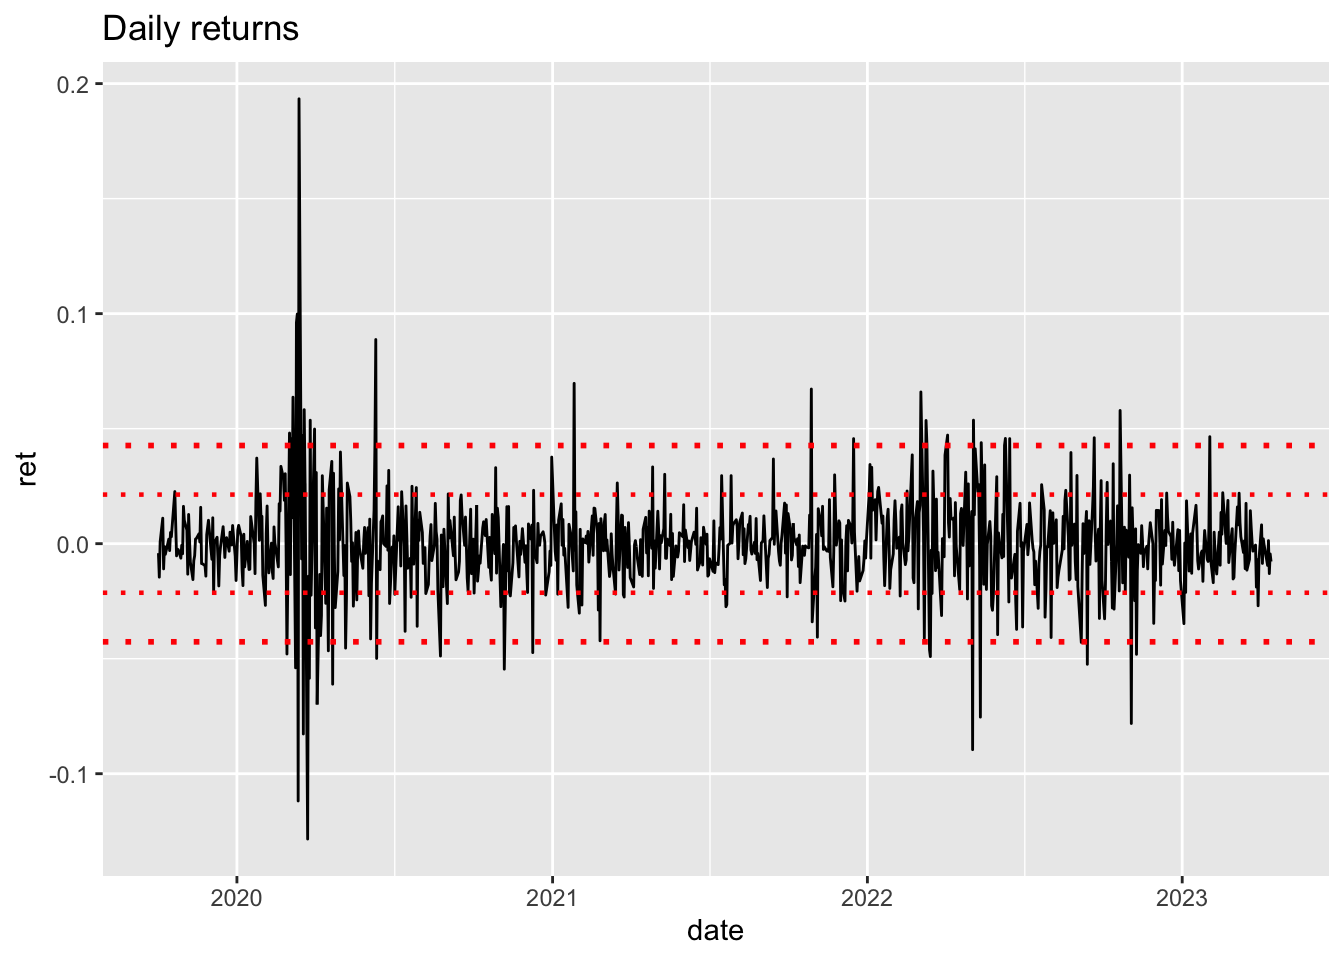
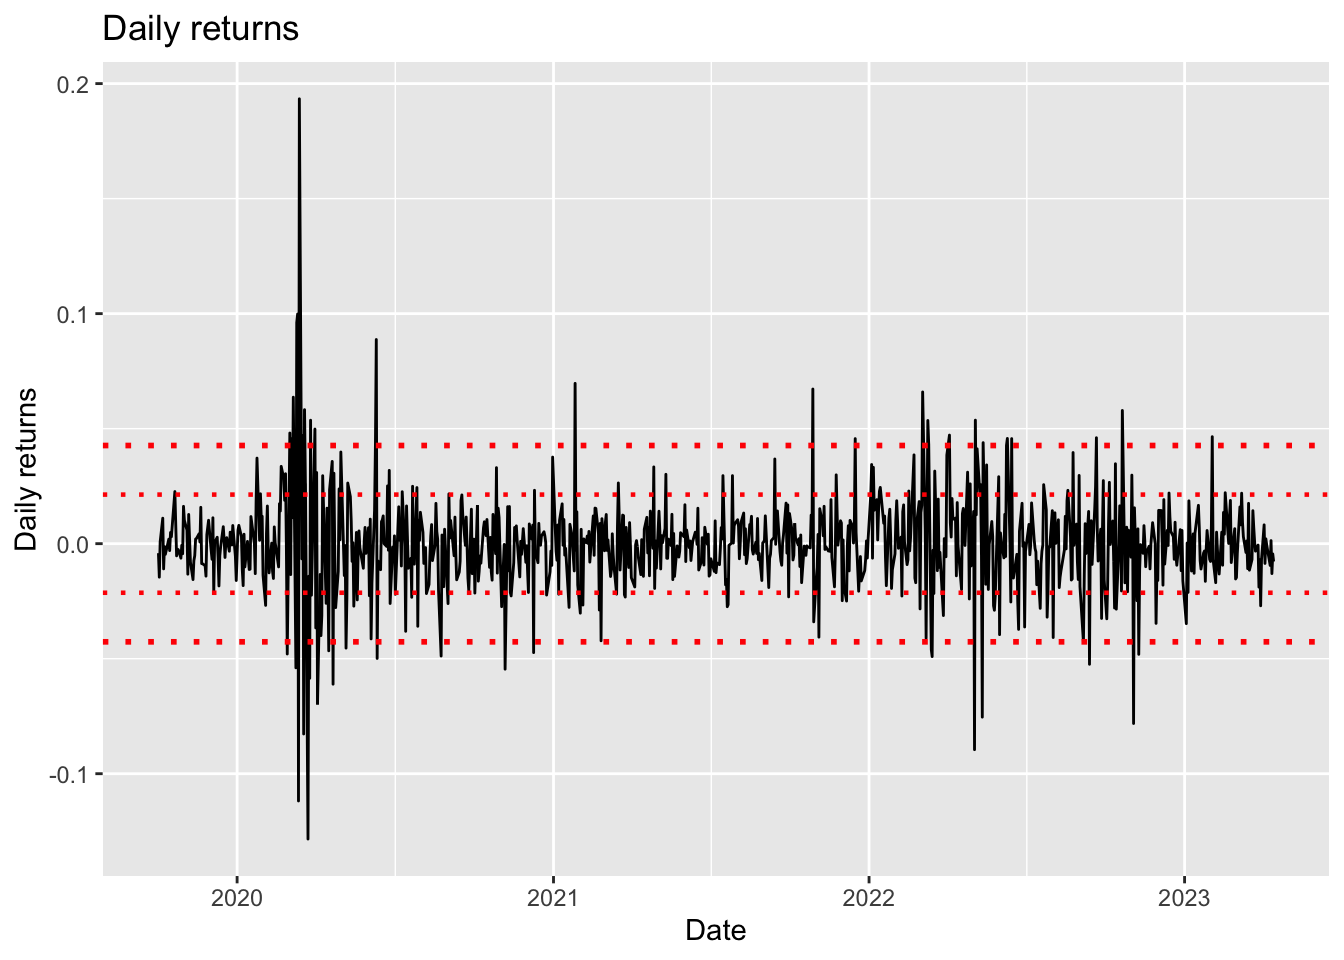
update on random behavior of assets post

diff --git a/docs/posts/random-behavior-assets/index.html b/docs/posts/random-behavior-assets/index.html
@@ -173,7 +173,6 @@ code span.wa { color: #60a0b0; font-weight: bold; font-style: italic; } /* Warni
                                 <div class="quarto-categories">
                 <div class="quarto-category">R-code</div>
                 <div class="quarto-category">quant-finance</div>
-                <div class="quarto-category">binomial_models</div>
               </div>
                   </div>
   </div>
@@ -213,7 +212,12 @@ code span.wa { color: #60a0b0; font-weight: bold; font-style: italic; } /* Warni
    
   <ul>
   <li><a href="#discrete-approach" id="toc-discrete-approach" class="nav-link active" data-scroll-target="#discrete-approach">Discrete approach</a></li>
-  <li><a href="#continuous-approach" id="toc-continuous-approach" class="nav-link" data-scroll-target="#continuous-approach">Continuous approach</a></li>
+  <li><a href="#continuous-approach" id="toc-continuous-approach" class="nav-link" data-scroll-target="#continuous-approach">Continuous approach</a>
+  <ul class="collapse">
+  <li><a href="#ignoring-randomness" id="toc-ignoring-randomness" class="nav-link" data-scroll-target="#ignoring-randomness">Ignoring randomness</a></li>
+  <li><a href="#considering-randomness" id="toc-considering-randomness" class="nav-link" data-scroll-target="#considering-randomness">Considering randomness</a></li>
+  <li><a href="#going-to-continuous-time" id="toc-going-to-continuous-time" class="nav-link" data-scroll-target="#going-to-continuous-time">Going to continuous time</a></li>
+  </ul></li>
   <li><a href="#practice-in-r" id="toc-practice-in-r" class="nav-link" data-scroll-target="#practice-in-r">Practice in R</a></li>
   </ul>
 </nav>
@@ -250,13 +254,15 @@ code span.wa { color: #60a0b0; font-weight: bold; font-style: italic; } /* Warni
 <li><span class="math inline">\(\mu\)</span> = Annualized means returns on a continuous basis (usually not known, or hard to know)</li>
 <li><span class="math inline">\(\delta t\)</span> = a small time increment</li>
 </ul>
-<p><span class="math display">\[R_i = \frac{S_{i+1} - S_i}{S_i} = \mu \delta t\]</span> <span class="math display">\[S_{i+1} - S_i= S_i \mu \delta t\]</span> <span id="eq-asset-price1"><span class="math display">\[S_{i+1} = S_i \cdot (1 +  \mu \delta t) \tag{3}\]</span></span></p>
+<section id="ignoring-randomness" class="level2">
+<h2 class="anchored" data-anchor-id="ignoring-randomness">Ignoring randomness</h2>
+<p><span class="math display">\[R_i = \frac{S_{i+1} - S_i}{S_i} = mean  = \mu \delta t\]</span> <span class="math display">\[S_{i+1} - S_i= S_i \mu \delta t\]</span> <span id="eq-asset-price1"><span class="math display">\[S_{i+1} = S_i \cdot (1 +  \mu \delta t) \tag{3}\]</span></span></p>
 <p>We could also rewrite <a href="#eq-asset-price1">Equation&nbsp;3</a> so it depends of the initial (starting) price, instead of the previous price.</p>
-<p><span class="math inline">\(S_n = S_0 (1+\mu \delta t)^n\)</span></p>
+<p><span class="math display">\[S_n = S_0 (1+\mu \delta t)^n\]</span></p>
 <p>Using natural log:</p>
 <p><span class="math inline">\(S_n = S_0 e^{log (1+\mu \delta t)^n} = S_0 e^{n \cdot log{(1+\mu \delta t)}}\)</span></p>
-<p>We could argue that <span class="math inline">\(log(1+\mu \delta t) = \mu \delta t\)</span> as <span class="math inline">\(log(1+x) = x\)</span> for small values of x.</p>
-<p><span id="eq-asset-price2"><span class="math display">\[S_n = S_0 \cdot e^{n \mu \delta t} \tag{4}\]</span></span></p>
+<p>We could argue that <span class="math inline">\(log(1+\mu \delta t) \approx \mu \delta t\)</span> as <span class="math inline">\(log(1+x) \approx x\)</span> for small values of x.</p>
+<p><span id="eq-asset-price2"><span class="math display">\[S_n \approx S_0 \cdot e^{n \mu \delta t} \tag{4}\]</span></span></p>
 <p>Now, <span class="math inline">\(n \cdot \delta t\)</span> is the same as <span class="math inline">\(t\)</span>. Hence,</p>
 <div class="callout-tip callout callout-style-simple no-icon">
 <div class="callout-body d-flex">
@@ -264,17 +270,37 @@ code span.wa { color: #60a0b0; font-weight: bold; font-style: italic; } /* Warni
 <i class="callout-icon no-icon"></i>
 </div>
 <div class="callout-body-container">
-<p><span class="math display">\[S(t) = S_0 \cdot e^{\mu t}\]</span></p>
-<p>And the standard deviation of returns = <span class="math inline">\(\sigma \sqrt{\delta t}\)</span></p>
+<p><span class="math display">\[S(t) \approx S_0 \cdot e^{\mu t}\]</span></p>
+</div>
+</div>
+</div>
+</section>
+<section id="considering-randomness" class="level2">
+<h2 class="anchored" data-anchor-id="considering-randomness">Considering randomness</h2>
+<p>Let’s restart with <a href="#eq-ret2">Equation&nbsp;2</a></p>
+<p><span class="math display">\[R_i = \frac{S_{i+1} - S_i}{S_i} = \bar{R} + std \cdot \phi = \mu \delta t + \sigma \phi \delta t^{1/2}\]</span> <span id="eq-asset-price2"><span class="math display">\[S_{i+1} - S_i= S_i \mu \delta t + S_i \sigma \phi \delta t^{1/2} \tag{5}\]</span></span></p>
+<div class="callout-tip callout callout-style-simple no-icon">
+<div class="callout-body d-flex">
+<div class="callout-icon-container">
+<i class="callout-icon no-icon"></i>
+</div>
+<div class="callout-body-container">
+<p><span id="eq-asset-price3"><span class="math display">\[S_{i+1} = S_i \cdot (1 +  \mu \delta t) + S_i \sigma \phi \delta t^{1/2} \tag{6}\]</span></span></p>
+<p>This last <a href="#eq-asset-price3">Equation&nbsp;6</a> is the basis for Monte-Carlo simulation.</p>
 <ul>
+<li>Notice the standard deviation of return: <span class="math inline">\(\sigma \sqrt{\delta t}\)</span></li>
 <li>unit of <span class="math inline">\(\mu = \frac{1}{t}\)</span></li>
 <li>unit of <span class="math inline">\(\sigma = \frac{1}{\sqrt{t}}\)</span></li>
+<li>this is because we can only variance together (no sd). For independent variable X and Y: <span class="math inline">\(Var(X+Y) = Var(X) + Var(Y)\)</span></li>
+<li>the standard deviation of returns scale up with the square root of the time step.</li>
 </ul>
 </div>
 </div>
 </div>
-<p>From earlier <a href="#eq-ret2">Equation&nbsp;2</a>, we can re-write it as: <span class="math inline">\(R_i = \bar{R} + Std \phi = \mu \delta t + \sigma \sqrt{\delta t} \phi\)</span></p>
-<p><span class="math display">\[S_{i+1} - S_i= S_i \mu \delta t + S_i \sigma \sqrt{\delta t} \phi\]</span></p>
+</section>
+<section id="going-to-continuous-time" class="level2">
+<h2 class="anchored" data-anchor-id="going-to-continuous-time">Going to continuous time</h2>
+<p>Restarting from <a href="#eq-asset-price2">Equation&nbsp;5</a> : <span class="math display">\[S_{i+1} - S_i= S_i \mu \delta t + S_i \sigma \sqrt{\delta t} \phi\]</span></p>
 <ul>
 <li><span class="math inline">\(S_{i+1} - S_i = dS\)</span></li>
 <li><span class="math inline">\(S_i = S(t)\)</span></li>
@@ -292,14 +318,17 @@ code span.wa { color: #60a0b0; font-weight: bold; font-style: italic; } /* Warni
 <li>returns are treated as random</li>
 <li>returns are assumed to be normally distributed (again not totally exact)</li>
 <li>prices (S) are modelled as a log-normal walk (SDE)</li>
+<li><span class="math inline">\(\mu\)</span> is the drift rate or growth rate</li>
+<li>because of the different scaling of time (<span class="math inline">\(t\)</span> and <span class="math inline">\(\sqrt{t}\)</span>), on a short time frame, drift is negligible and volatility matters.</li>
 </ul>
 </div>
 </div>
 </div>
 </section>
+</section>
 <section id="practice-in-r" class="level1">
 <h1>Practice in R</h1>
-<p>Let’s use the previous note with a SBUX as a ticker.</p>
+<p>Let’s use the above notes with the ticker SBUX as a financial asset.</p>
 <div class="cell">
 <div class="sourceCode cell-code" id="cb1"><pre class="sourceCode r code-with-copy"><code class="sourceCode r"><span id="cb1-1"><a href="#cb1-1" aria-hidden="true" tabindex="-1"></a><span class="fu">library</span>(readr)    <span class="co"># read_csv()</span></span>
 <span id="cb1-2"><a href="#cb1-2" aria-hidden="true" tabindex="-1"></a><span class="fu">library</span>(dplyr)    <span class="co"># select(), filter(), mutate()</span></span>
@@ -314,27 +343,50 @@ code span.wa { color: #60a0b0; font-weight: bold; font-style: italic; } /* Warni
 <span id="cb1-11"><a href="#cb1-11" aria-hidden="true" tabindex="-1"></a>stdev <span class="ot">=</span> <span class="fu">sd</span>(df<span class="sc">$</span>ret, <span class="at">na.rm =</span> T)</span>
 <span id="cb1-12"><a href="#cb1-12" aria-hidden="true" tabindex="-1"></a></span>
 <span id="cb1-13"><a href="#cb1-13" aria-hidden="true" tabindex="-1"></a>mu <span class="ot">=</span> r_bar <span class="sc">/</span> (<span class="dv">1</span><span class="sc">/</span><span class="dv">252</span>)</span>
-<span id="cb1-14"><a href="#cb1-14" aria-hidden="true" tabindex="-1"></a>sigma <span class="ot">=</span> stdev <span class="sc">/</span> <span class="fu">sqrt</span>(<span class="dv">1</span><span class="sc">/</span><span class="dv">252</span>)</span></code><button title="Copy to Clipboard" class="code-copy-button"><i class="bi"></i></button></pre></div>
+<span id="cb1-14"><a href="#cb1-14" aria-hidden="true" tabindex="-1"></a>sigma <span class="ot">=</span> stdev <span class="sc">/</span> <span class="fu">sqrt</span>(<span class="dv">1</span><span class="sc">/</span><span class="dv">252</span>)</span>
+<span id="cb1-15"><a href="#cb1-15" aria-hidden="true" tabindex="-1"></a></span>
+<span id="cb1-16"><a href="#cb1-16" aria-hidden="true" tabindex="-1"></a>r_bar</span></code><button title="Copy to Clipboard" class="code-copy-button"><i class="bi"></i></button></pre></div>
+<div class="cell-output cell-output-stdout">
+<pre><code>[1] -0.0001341147</code></pre>
 </div>
-<p>The average daily return of SBUX over the last 3-ish year is -1.34^{-4} and using <span class="math inline">\(\bar{R} = \mu \delta t\)</span> , or <span class="math inline">\(\mu = \frac{\bar{R}}{\delta t}\)</span> and in our case <span class="math inline">\(\delta t = \frac{1}{252}\)</span>; hence annualized returns is -3.38 % with standard deviation of 33.868 % annualized.</p>
+<div class="sourceCode cell-code" id="cb3"><pre class="sourceCode r code-with-copy"><code class="sourceCode r"><span id="cb3-1"><a href="#cb3-1" aria-hidden="true" tabindex="-1"></a>stdev</span></code><button title="Copy to Clipboard" class="code-copy-button"><i class="bi"></i></button></pre></div>
+<div class="cell-output cell-output-stdout">
+<pre><code>[1] 0.02133465</code></pre>
+</div>
+</div>
+<p>Knowing the average daily return of SBUX over the last 3-ish year and using <span class="math inline">\(\bar{R} = \mu \delta t\)</span> , or <span class="math inline">\(\mu = \frac{\bar{R}}{\delta t}\)</span> and in our case <span class="math inline">\(\delta t = \frac{1}{252}\)</span>; we find the average annualized returns <span class="math inline">\(\mu\)</span> is: -3.38 % with standard deviation <span class="math inline">\(\sigma\)</span> of 33.9 % annualized.</p>
 <p>We could plot the returns and the std of returns</p>
 <div class="cell">
-<div class="sourceCode cell-code" id="cb2"><pre class="sourceCode r code-with-copy"><code class="sourceCode r"><span id="cb2-1"><a href="#cb2-1" aria-hidden="true" tabindex="-1"></a><span class="fu">library</span>(ggplot2)</span>
-<span id="cb2-2"><a href="#cb2-2" aria-hidden="true" tabindex="-1"></a></span>
-<span id="cb2-3"><a href="#cb2-3" aria-hidden="true" tabindex="-1"></a><span class="fu">ggplot</span>(df, <span class="fu">aes</span>(<span class="at">x =</span> date, <span class="at">y =</span> ret)) <span class="sc">+</span> </span>
-<span id="cb2-4"><a href="#cb2-4" aria-hidden="true" tabindex="-1"></a>  <span class="fu">geom_line</span>() <span class="sc">+</span> </span>
-<span id="cb2-5"><a href="#cb2-5" aria-hidden="true" tabindex="-1"></a>  <span class="fu">geom_hline</span>(<span class="at">yintercept =</span> stdev, <span class="at">linetype =</span> <span class="st">'dotted'</span>, <span class="at">color =</span> <span class="st">'red'</span>, <span class="at">linewidth=</span> <span class="fl">0.8</span>) <span class="sc">+</span> </span>
-<span id="cb2-6"><a href="#cb2-6" aria-hidden="true" tabindex="-1"></a>  <span class="fu">geom_hline</span>(<span class="at">yintercept =</span> <span class="sc">-</span>stdev, <span class="at">linetype =</span> <span class="st">'dotted'</span>, <span class="at">color =</span> <span class="st">'red'</span>, <span class="at">linewidth =</span> <span class="fl">0.8</span>) <span class="sc">+</span> </span>
-<span id="cb2-7"><a href="#cb2-7" aria-hidden="true" tabindex="-1"></a>    <span class="fu">geom_hline</span>(<span class="at">yintercept =</span> <span class="dv">2</span><span class="sc">*</span>stdev, <span class="at">linetype =</span> <span class="st">'dotted'</span>, <span class="at">color =</span> <span class="st">'red'</span>, <span class="at">linewidth=</span> <span class="dv">1</span>) <span class="sc">+</span> </span>
-<span id="cb2-8"><a href="#cb2-8" aria-hidden="true" tabindex="-1"></a>  <span class="fu">geom_hline</span>(<span class="at">yintercept =</span> <span class="sc">-</span><span class="dv">2</span><span class="sc">*</span>stdev, <span class="at">linetype =</span> <span class="st">'dotted'</span>, <span class="at">color =</span> <span class="st">'red'</span>, <span class="at">linewidth =</span> <span class="dv">1</span>) <span class="sc">+</span> </span>
-<span id="cb2-9"><a href="#cb2-9" aria-hidden="true" tabindex="-1"></a>  <span class="fu">labs</span>(<span class="at">title =</span> <span class="st">'Daily returns'</span>)</span></code><button title="Copy to Clipboard" class="code-copy-button"><i class="bi"></i></button></pre></div>
-<div class="cell-output cell-output-stderr">
-<pre><code>Warning: Removed 1 row containing missing values (`geom_line()`).</code></pre>
-</div>
+<div class="sourceCode cell-code" id="cb5"><pre class="sourceCode r code-with-copy"><code class="sourceCode r"><span id="cb5-1"><a href="#cb5-1" aria-hidden="true" tabindex="-1"></a><span class="fu">library</span>(ggplot2)</span>
+<span id="cb5-2"><a href="#cb5-2" aria-hidden="true" tabindex="-1"></a></span>
+<span id="cb5-3"><a href="#cb5-3" aria-hidden="true" tabindex="-1"></a><span class="fu">ggplot</span>(df <span class="sc">|&gt;</span> <span class="fu">drop_na</span>(), <span class="fu">aes</span>(<span class="at">x =</span> date, <span class="at">y =</span> ret)) <span class="sc">+</span> </span>
+<span id="cb5-4"><a href="#cb5-4" aria-hidden="true" tabindex="-1"></a>  <span class="fu">geom_line</span>() <span class="sc">+</span> </span>
+<span id="cb5-5"><a href="#cb5-5" aria-hidden="true" tabindex="-1"></a>  <span class="fu">geom_hline</span>(<span class="at">yintercept =</span> stdev, <span class="at">linetype =</span> <span class="st">'dotted'</span>, <span class="at">color =</span> <span class="st">'red'</span>, <span class="at">linewidth=</span> <span class="fl">0.8</span>) <span class="sc">+</span> </span>
+<span id="cb5-6"><a href="#cb5-6" aria-hidden="true" tabindex="-1"></a>  <span class="fu">geom_hline</span>(<span class="at">yintercept =</span> <span class="sc">-</span>stdev, <span class="at">linetype =</span> <span class="st">'dotted'</span>, <span class="at">color =</span> <span class="st">'red'</span>, <span class="at">linewidth =</span> <span class="fl">0.8</span>) <span class="sc">+</span> </span>
+<span id="cb5-7"><a href="#cb5-7" aria-hidden="true" tabindex="-1"></a>  <span class="fu">geom_hline</span>(<span class="at">yintercept =</span> <span class="dv">2</span><span class="sc">*</span>stdev, <span class="at">linetype =</span> <span class="st">'dotted'</span>, <span class="at">color =</span> <span class="st">'red'</span>, <span class="at">linewidth=</span> <span class="dv">1</span>) <span class="sc">+</span> </span>
+<span id="cb5-8"><a href="#cb5-8" aria-hidden="true" tabindex="-1"></a>  <span class="fu">geom_hline</span>(<span class="at">yintercept =</span> <span class="sc">-</span><span class="dv">2</span><span class="sc">*</span>stdev, <span class="at">linetype =</span> <span class="st">'dotted'</span>, <span class="at">color =</span> <span class="st">'red'</span>, <span class="at">linewidth =</span> <span class="dv">1</span>) <span class="sc">+</span> </span>
+<span id="cb5-9"><a href="#cb5-9" aria-hidden="true" tabindex="-1"></a>  <span class="fu">xlab</span>(<span class="at">label =</span> <span class="st">'Date'</span>) <span class="sc">+</span> <span class="fu">ylab</span>(<span class="at">label =</span> <span class="st">'Daily returns'</span>) <span class="sc">+</span> </span>
+<span id="cb5-10"><a href="#cb5-10" aria-hidden="true" tabindex="-1"></a>  <span class="fu">labs</span>(<span class="at">title =</span> <span class="st">'Daily returns'</span>)</span></code><button title="Copy to Clipboard" class="code-copy-button"><i class="bi"></i></button></pre></div>
 <div class="cell-output-display">
 <p><img src="index_files/figure-html/unnamed-chunk-2-1.png" class="img-fluid" width="672"></p>
 </div>
 </div>
+<p>We could standardized the returns (aka ensure they have a mean = 0 and std = 1) and compare it to the standard normal distribution.</p>
+<div class="cell">
+<div class="sourceCode cell-code" id="cb6"><pre class="sourceCode r code-with-copy"><code class="sourceCode r"><span id="cb6-1"><a href="#cb6-1" aria-hidden="true" tabindex="-1"></a>df1 <span class="ot">&lt;-</span> df <span class="sc">|&gt;</span> </span>
+<span id="cb6-2"><a href="#cb6-2" aria-hidden="true" tabindex="-1"></a>  <span class="fu">mutate</span>(<span class="at">std_ret =</span> (ret <span class="sc">-</span> r_bar) <span class="sc">/</span> stdev) <span class="sc">|&gt;</span> </span>
+<span id="cb6-3"><a href="#cb6-3" aria-hidden="true" tabindex="-1"></a>  <span class="fu">drop_na</span>()</span>
+<span id="cb6-4"><a href="#cb6-4" aria-hidden="true" tabindex="-1"></a></span>
+<span id="cb6-5"><a href="#cb6-5" aria-hidden="true" tabindex="-1"></a><span class="fu">ggplot</span>(df1, <span class="fu">aes</span>(std_ret)) <span class="sc">+</span> </span>
+<span id="cb6-6"><a href="#cb6-6" aria-hidden="true" tabindex="-1"></a>  <span class="fu">geom_histogram</span>(<span class="fu">aes</span>(<span class="at">y =</span> ..density..), <span class="at">alpha =</span> <span class="fl">0.3</span>, <span class="at">fill =</span> <span class="st">'blue'</span>, <span class="at">binwidth =</span> <span class="fl">0.5</span>) <span class="sc">+</span> </span>
+<span id="cb6-7"><a href="#cb6-7" aria-hidden="true" tabindex="-1"></a>  <span class="fu">stat_function</span>(<span class="at">fun =</span> dnorm, <span class="at">n =</span> <span class="dv">101</span>, <span class="at">args =</span> <span class="fu">list</span>(<span class="at">mean =</span> <span class="dv">0</span>, <span class="at">sd =</span> <span class="dv">1</span>), <span class="at">color =</span> <span class="st">'red'</span>, <span class="at">size =</span> <span class="dv">1</span>) <span class="sc">+</span></span>
+<span id="cb6-8"><a href="#cb6-8" aria-hidden="true" tabindex="-1"></a>  <span class="fu">scale_y_continuous</span>() <span class="sc">+</span> </span>
+<span id="cb6-9"><a href="#cb6-9" aria-hidden="true" tabindex="-1"></a>  <span class="fu">scale_x_continuous</span>(<span class="at">limits =</span> <span class="fu">c</span>(<span class="sc">-</span><span class="dv">5</span>, <span class="dv">5</span>), <span class="at">n.breaks =</span> <span class="dv">9</span>)</span></code><button title="Copy to Clipboard" class="code-copy-button"><i class="bi"></i></button></pre></div>
+<div class="cell-output-display">
+<p><img src="index_files/figure-html/unnamed-chunk-3-1.png" class="img-fluid" width="672"></p>
+</div>
+</div>
+<p>This graph exemplifies what is very common with asset returns: fat tail, and under representation of returns just outside the mean.</p>
 
 
 </section>

diff --git a/docs/index.html b/docs/index.html
@@ -153,7 +153,7 @@ ul.task-list li input[type="checkbox"] {
 <!-- margin-sidebar -->
     <div id="quarto-margin-sidebar" class="sidebar margin-sidebar">
         
-    <h5 class="quarto-listing-category-title">Categories</h5><div class="quarto-listing-category category-default"><div class="category" data-category="">All <span class="quarto-category-count">(13)</span></div><div class="category" data-category="Linear-Algebra">Linear-Algebra <span class="quarto-category-count">(1)</span></div><div class="category" data-category="Markov Chain">Markov Chain <span class="quarto-category-count">(2)</span></div><div class="category" data-category="R-code">R-code <span class="quarto-category-count">(5)</span></div><div class="category" data-category="Random Walk">Random Walk <span class="quarto-category-count">(1)</span></div><div class="category" data-category="analysis">analysis <span class="quarto-category-count">(5)</span></div><div class="category" data-category="binomial_models">binomial_models <span class="quarto-category-count">(2)</span></div><div class="category" data-category="code">code <span class="quarto-category-count">(6)</span></div><div class="category" data-category="kmeans">kmeans <span class="quarto-category-count">(2)</span></div><div class="category" data-category="linear-regression">linear-regression <span class="quarto-category-count">(1)</span></div><div class="category" data-category="model">model <span class="quarto-category-count">(2)</span></div><div class="category" data-category="news">news <span class="quarto-category-count">(2)</span></div><div class="category" data-category="portfolio">portfolio <span class="quarto-category-count">(1)</span></div><div class="category" data-category="python">python <span class="quarto-category-count">(1)</span></div><div class="category" data-category="quant-finance">quant-finance <span class="quarto-category-count">(4)</span></div><div class="category" data-category="statistics">statistics <span class="quarto-category-count">(1)</span></div><div class="category" data-category="tidymodel">tidymodel <span class="quarto-category-count">(2)</span></div><div class="category" data-category="xgboost">xgboost <span class="quarto-category-count">(1)</span></div></div></div>
+    <h5 class="quarto-listing-category-title">Categories</h5><div class="quarto-listing-category category-default"><div class="category" data-category="">All <span class="quarto-category-count">(13)</span></div><div class="category" data-category="Linear-Algebra">Linear-Algebra <span class="quarto-category-count">(1)</span></div><div class="category" data-category="Markov Chain">Markov Chain <span class="quarto-category-count">(2)</span></div><div class="category" data-category="R-code">R-code <span class="quarto-category-count">(5)</span></div><div class="category" data-category="Random Walk">Random Walk <span class="quarto-category-count">(1)</span></div><div class="category" data-category="analysis">analysis <span class="quarto-category-count">(5)</span></div><div class="category" data-category="binomial_models">binomial_models <span class="quarto-category-count">(1)</span></div><div class="category" data-category="code">code <span class="quarto-category-count">(6)</span></div><div class="category" data-category="kmeans">kmeans <span class="quarto-category-count">(2)</span></div><div class="category" data-category="linear-regression">linear-regression <span class="quarto-category-count">(1)</span></div><div class="category" data-category="model">model <span class="quarto-category-count">(2)</span></div><div class="category" data-category="news">news <span class="quarto-category-count">(2)</span></div><div class="category" data-category="portfolio">portfolio <span class="quarto-category-count">(1)</span></div><div class="category" data-category="python">python <span class="quarto-category-count">(1)</span></div><div class="category" data-category="quant-finance">quant-finance <span class="quarto-category-count">(4)</span></div><div class="category" data-category="statistics">statistics <span class="quarto-category-count">(1)</span></div><div class="category" data-category="tidymodel">tidymodel <span class="quarto-category-count">(2)</span></div><div class="category" data-category="xgboost">xgboost <span class="quarto-category-count">(1)</span></div></div></div>
 <!-- main -->
 <main class="content quarto-banner-title-block column-page-left" id="quarto-document-content">
 
@@ -166,13 +166,9 @@ ul.task-list li input[type="checkbox"] {
 
 <div class="quarto-listing quarto-listing-container-default" id="listing-listing">
 <div class="list quarto-listing-default">
-<div class="quarto-post image-right" data-index="0" data-categories="R-code,quant-finance,binomial_models" data-listing-date-sort="1681750800000" data-listing-file-modified-sort="1681815136630" data-listing-reading-time-sort="3.295">
+<div class="quarto-post image-right" data-index="0" data-categories="R-code,quant-finance" data-listing-date-sort="1681750800000" data-listing-file-modified-sort="1681896216723" data-listing-reading-time-sort="4.605">
 <div class="thumbnail">
-<a href="./posts/random-behavior-assets/index.html">
-<div class="thumbnail-image">
-
-</div>
-</a><p><a href="./posts/random-behavior-assets/index.html"></a></p>
+<p><a href="./posts/random-behavior-assets/index.html"> <img src="./posts/random-behavior-assets/histogram-of-returns.png" class="thumnail-image"> </a></p>
 </div>
 <div class="body">
 <a href="./posts/random-behavior-assets/index.html">
@@ -189,9 +185,6 @@ R-code
 </div>
 <div class="listing-category" onclick="window.quartoListingCategory('quant-finance'); return false;">
 quant-finance
-</div>
-<div class="listing-category" onclick="window.quartoListingCategory('binomial_models'); return false;">
-binomial_models
 </div>
 </div>
 <a href="./posts/random-behavior-assets/index.html">
